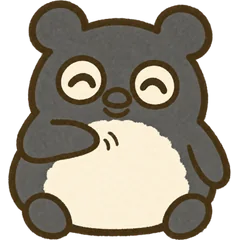
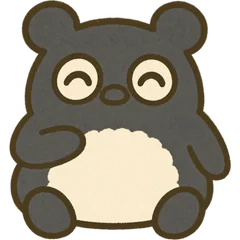
fix(marketing): the penguin has no mouth; hammock always wins at the page end
- Redrawn with Codex against huddle-mascot.png (nose only, no mouth):
  wave, full, shades. yawn -> stretch (eyes closed, arms up). New happy
  pose (^ ^ eyes + blush). Removed open.webp / chomp.webp / yawn.webp.
- Feeding: the fish lands on the penguin and vanishes in a puff of
  crumbs; the penguin goes happy (squint + blush), hops, hearts; burps
  stay. No open-mouth/chew steps anymore.
- Hammock: new data-penguin-priority stop flag; the hammock wins as soon
  as it is fully on screen (the check-in toy stop used to steal the last
  stop), so scrolling to the bottom always ends in a nap; scrolling up
  wakes it. Asserted at 1440/390 (roamer rect overlaps hammock rect).

diff --git a/components/marketing/penguin-circus.tsx b/components/marketing/penguin-circus.tsx
@@ -31,7 +31,7 @@ import { useEffect, useRef } from 'react'
 import { isDesktop, isNative } from '@/lib/platform'
 import styles from './penguin-circus.module.css'
 
-export const POSES = ['stand', 'slide', 'fly', 'wave', 'skate', 'sleep', 'carry', 'open', 'chomp', 'full', 'yawn', 'phone', 'flag', 'shades', 'splat', 'music'] as const
+export const POSES = ['stand', 'slide', 'fly', 'wave', 'skate', 'sleep', 'carry', 'happy', 'full', 'stretch', 'phone', 'flag', 'shades', 'splat', 'music'] as const
 type Pose = (typeof POSES)[number]
 const src = (p: Pose) => `/art/penguin/${p}.webp`
 const FACES_RIGHT = new Set<Pose>(['slide', 'fly', 'skate'])
@@ -174,7 +174,7 @@ export function HeroSwarm({ locale = 'zh' }: { locale?: Locale }) {
 
 /* ─────────────────────────── Roaming penguin ─────────────────────────── */
 
-type Stop = { el: HTMLElement; at: number[]; atM?: number[]; pose: Pose; motion?: string; nap: boolean }
+type Stop = { el: HTMLElement; at: number[]; atM?: number[]; pose: Pose; motion?: string; nap: boolean; priority: boolean }
 const parse = (v?: string) => (v ? v.trim().split(/\s+/).map(Number) : undefined)
 
 export function RoamingPenguin({ locale = 'zh' }: { locale?: Locale }) {
@@ -205,7 +205,7 @@ export function RoamingPenguin({ locale = 'zh' }: { locale?: Locale }) {
       const only = mobile() ? 'desktop' : 'mobile'
       stops = Array.from(document.querySelectorAll<HTMLElement>('[data-penguin-stop]')).filter(el => el.dataset.penguinOnly !== only).map(el => ({
         el, at: parse(el.dataset.penguinAt) ?? [0.5, 0.5], atM: parse(el.dataset.penguinAtM),
-        pose: (el.dataset.penguinPose as Pose) || 'stand', motion: el.dataset.penguinMotion, nap: el.dataset.penguinNap !== undefined,
+        pose: (el.dataset.penguinPose as Pose) || 'stand', motion: el.dataset.penguinMotion, nap: el.dataset.penguinNap !== undefined, priority: el.dataset.penguinPriority !== undefined,
       }))
     }
     collect()
@@ -318,10 +318,10 @@ export function RoamingPenguin({ locale = 'zh' }: { locale?: Locale }) {
         { transform: `translate(${bx - 18}px,${by - 52}px) scale(1.05)`, opacity: 1, offset: 0.62 },
         { transform: `translate(${bx - 18}px,${by - 52}px) scale(1.7)`, opacity: 0 },
       ], { duration: 1150, easing: 'ease-out' }).finished.then(() => b.remove(), () => b.remove())
-      window.setTimeout(() => { holdPose('open', 650); hop(34, 380); say(w.eep) }, 720)
+      window.setTimeout(() => { holdPose('stand', 650); hop(34, 380); say(w.eep) }, 720)
     }
     const IDLES: Array<() => void> = [
-      () => holdPose('yawn', 1500),
+      () => holdPose('stretch', 1500),
       () => holdPose('phone', 2300),
       flagWave, cool, slip, scare,
     ]
@@ -352,7 +352,7 @@ export function RoamingPenguin({ locale = 'zh' }: { locale?: Locale }) {
         }, 380)
       } else {
         hold.until = 0; busyUntil = performance.now() + 500
-        holdPose('open', 500); hop(24)
+        holdPose('happy', 700); hop(24)
       }
     }
     window.addEventListener('huddle:focus-mode', onFocusMode)
@@ -377,9 +377,10 @@ export function RoamingPenguin({ locale = 'zh' }: { locale?: Locale }) {
     const gulp = () => {
       const now = performance.now()
       fat = Math.min(4, fat + 1); lastFed = now
-      holdPose('chomp', 620)
-      body.animate([{ transform: 'none' }, { transform: 'translateY(-18px) scale(1.06, .95)', offset: 0.4 }, { transform: 'none' }], { duration: 440, easing: 'ease-out' })
-      burst(x, y - S * 0.9)
+      holdPose('happy', 900)
+      crumbs(x, y - S * 0.5)
+      body.animate([{ transform: 'none' }, { transform: 'translateY(-20px) scale(1.06, .95)', offset: 0.4 }, { transform: 'none' }], { duration: 460, easing: 'ease-out' })
+      burst(x, y - S * 0.95)
       if (fat >= 4) {
         busyUntil = now + 5600
         window.setTimeout(() => { say(w.full); holdPose('full', 2300) }, 620)
@@ -387,13 +388,24 @@ export function RoamingPenguin({ locale = 'zh' }: { locale?: Locale }) {
         window.setTimeout(() => { fat = 1; lastFed = performance.now() }, 5500)
       } else if (fat === 2 || Math.random() < 0.3) window.setTimeout(() => say(w.burp), 520)
     }
+    // the fish vanishes with a little puff of crumbs and sparkles (the penguin has no mouth)
+    const crumbs = (cx: number, cy: number) => {
+      for (let i = 0; i < 7; i++) {
+        const el = document.createElement('span'); el.className = styles.crumb; fx.appendChild(el)
+        const a = (i / 7) * Math.PI * 2, d = 16 + Math.random() * 16
+        el.animate([
+          { transform: `translate(${cx}px,${cy}px) scale(1)`, opacity: 1 },
+          { transform: `translate(${cx + Math.cos(a) * d}px,${cy + Math.sin(a) * d}px) scale(.4)`, opacity: 0 },
+        ], { duration: 380, easing: 'ease-out' }).finished.then(() => el.remove(), () => el.remove())
+      }
+    }
     const feed = (fromX: number, fromY: number) => {
       busyUntil = performance.now() + 1250
-      holdPose('open', 640)
+      holdPose('stand', 640)
       const el = document.createElement('div'); el.className = styles.fish
       el.innerHTML = '<svg viewBox="0 0 36 24" width="44" height="30" aria-hidden="true"><path d="M3 12c5-8 15-9 22-3l7-6v18l-7-6c-7 6-17 5-22-3z" fill="#cf5731" stroke="#292b24" stroke-width="2.4" stroke-linejoin="round"/><circle cx="10" cy="10.5" r="2" fill="#292b24"/></svg>'
       fx.appendChild(el)
-      const mx = x, my = y - S * 0.6, dx = mx - fromX, dy = my - fromY
+      const mx = x, my = y - S * 0.5, dx = mx - fromX, dy = my - fromY
       const peak = Math.max(110, Math.min(230, Math.hypot(dx, dy) * 0.45 + 90))
       // a click right on the penguin tosses the fish up and over, not in place
       const side = Math.abs(dx) < 50 ? (fromX > window.innerWidth / 2 ? -70 : 70) : 0
@@ -438,7 +450,8 @@ export function RoamingPenguin({ locale = 'zh' }: { locale?: Locale }) {
         for (const s of stops) {
           const r = s.el.getBoundingClientRect()
           if (!r.height) continue
-          const d = Math.abs(anchor(s, r).y - vh * 0.52)
+          // priority stops (the hammock) win whenever they are fully on screen
+          const d = s.priority && r.top >= 0 && r.bottom <= vh ? -1 : Math.abs(anchor(s, r).y - vh * 0.52)
           if (d < bd) { bd = d; best = s }
         }
         active = best
@@ -614,7 +627,7 @@ export function FocusRing() {
 
 export function Hammock() {
   return (
-    <div className={styles.hammock} data-penguin-stop="hammock" data-penguin-at="0.5 0.78" data-penguin-pose="sleep" data-penguin-nap="" aria-hidden="true">
+    <div className={styles.hammock} data-penguin-stop="hammock" data-penguin-at="0.5 0.78" data-penguin-pose="sleep" data-penguin-nap="" data-penguin-priority="" aria-hidden="true">
       <div className={styles.hammockSwing}>
         <svg viewBox="0 0 190 96" preserveAspectRatio="none">
           <circle cx="6" cy="8" r="5" fill="none" stroke="#292b24" strokeWidth="3" />

diff --git a/components/marketing/penguin-circus.module.css b/components/marketing/penguin-circus.module.css
@@ -41,6 +41,7 @@
 .note { position: absolute; left: 0; top: 0; margin: -10px 0 0 -6px; font: 800 20px/1 system-ui, sans-serif; color: #292b24; text-shadow: 0 0 2px #f6f3e9, 0 0 2px #f6f3e9; }
 .roam[data-music] .roamInner { animation: nod .5s ease-in-out infinite alternate; }
 @keyframes nod { from { rotate: -5deg; } to { rotate: 6deg; translate: 0 2px; } }
+.crumb { position: absolute; left: 0; top: 0; width: 6px; height: 6px; margin: -3px 0 0 -3px; border-radius: 2px; background: #cf5731; box-shadow: 0 0 0 1px #292b24; }
 .spark { color: #edc747; text-shadow: 0 0 1px #292b24, 0 0 1px #292b24; }
 .bonk { position: absolute; left: 0; top: 0; width: 34px; height: 34px; margin: -17px 0 0 -17px; }
 
